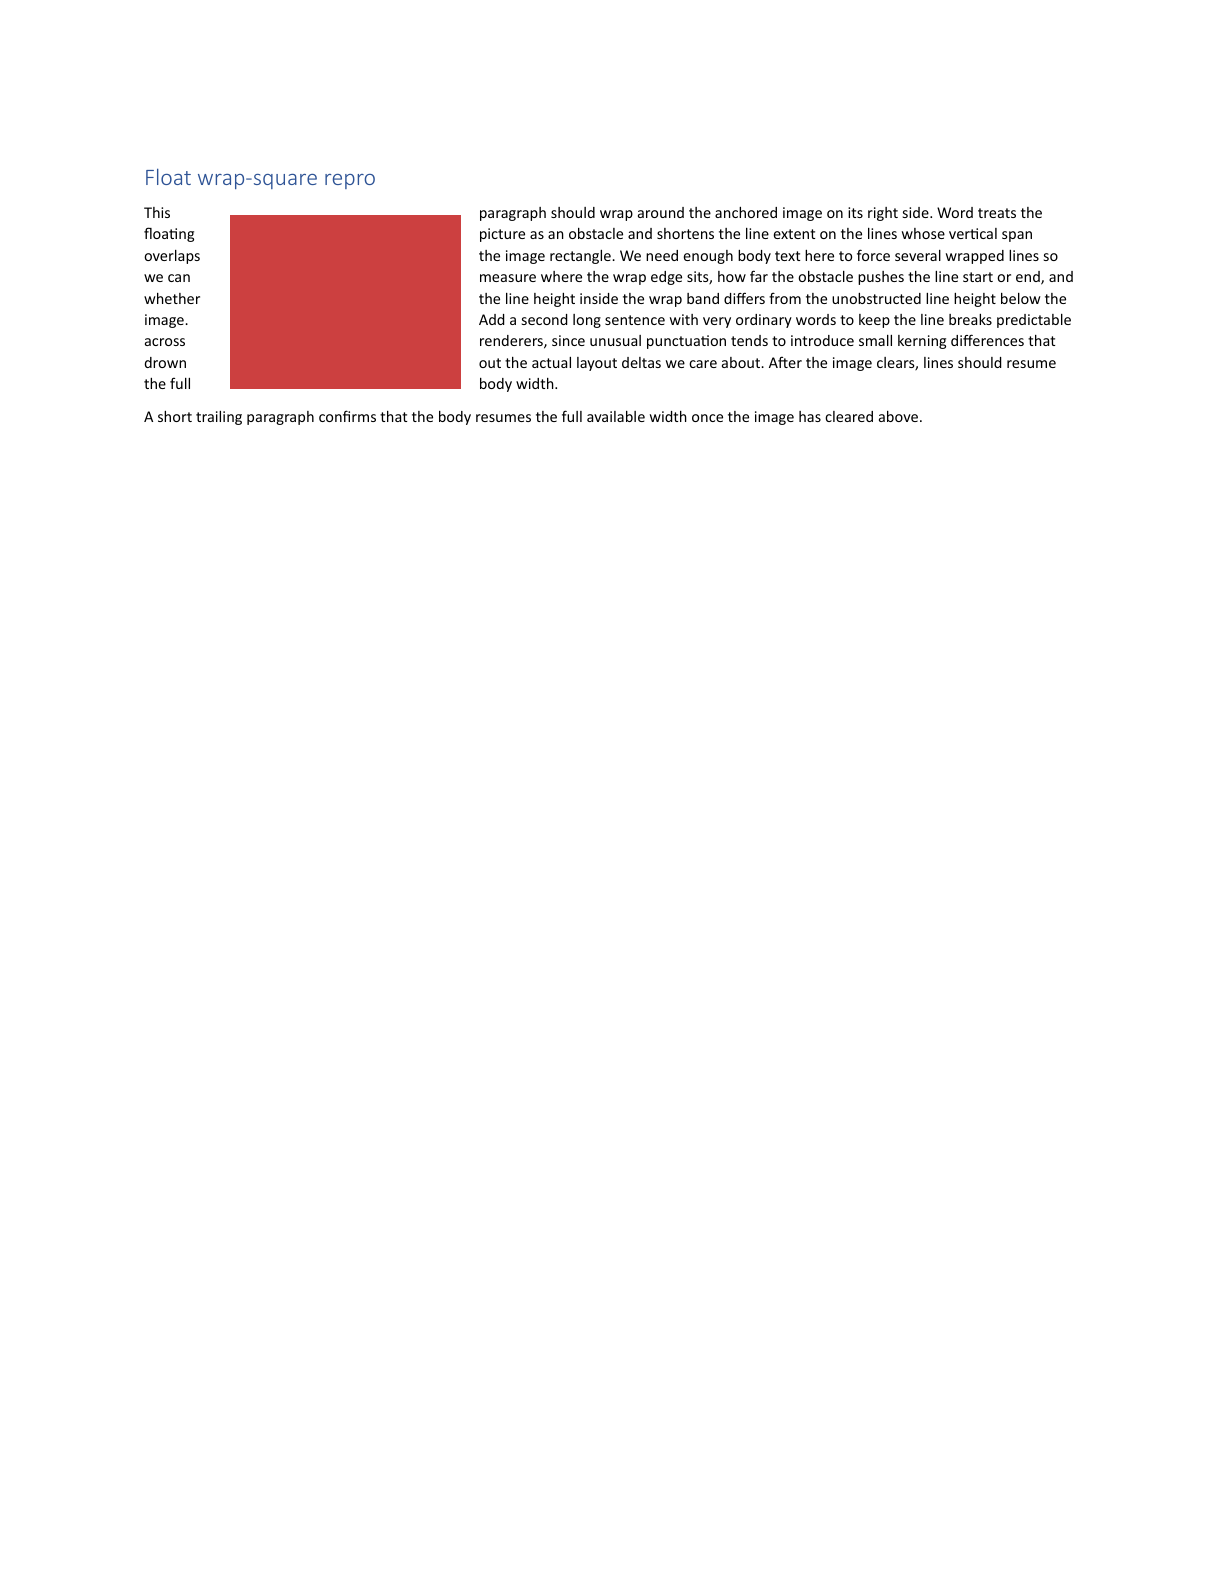
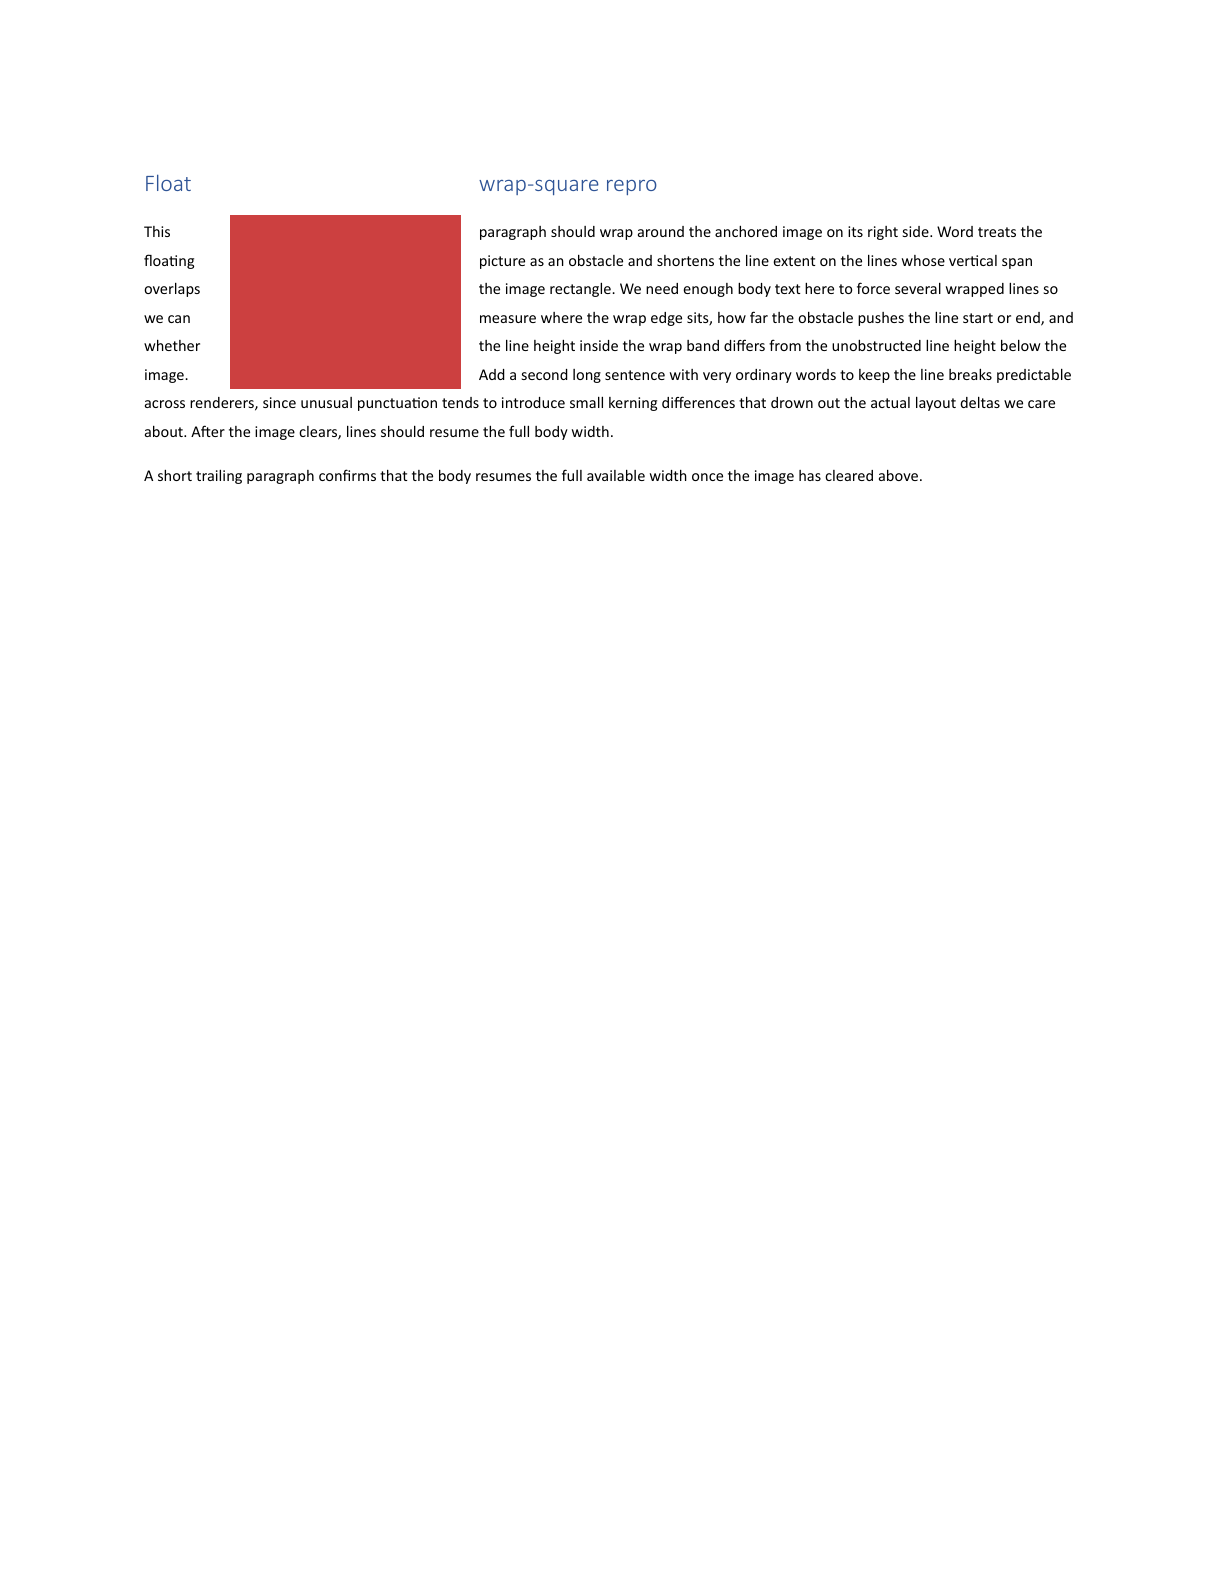
Refresh float parity rows: heading now splits like Word's
Re-rendered After PDF + browser captures after the two-pass anchor-
extended obstacle (5525179) and pt→px spacing/line-height conversions
(0be7e1a, e3e716c). The headings now split into Float | wrap-square
repro around the image, matching Word's structure.

Updated captions describe the full fix chain (anchor-extended two-
pass + spacing pt→px + non-table line height pt→px) and report the
new pixel-diff numbers:

  PDF float region  ink-XOR vs Word:  93.85% → 52.01% (was 54.61%)
  browser float region ink-XOR vs Word: 62.96% → 56.59% (was 46.55%)

The browser number went up slightly because the (correct) larger
line height shifts text vertically. That's expected — the layout is
now closer to Word's structure, but font shaping still produces
different word breaks than Word's, so glyph positions disagree.

Changed region(s): [[0.1242, 0.0928, 0.8693, 0.3093], [0.1863, 0.0928, 0.2484, 0.1237]]

diff --git a/docs/word-parity-fixes.html b/docs/word-parity-fixes.html
@@ -160,7 +160,7 @@
           <div class="zoom">
             <img src="images/browser/float-image-wrap-square-pdf-after.png" style="--w:1224px; --x:40px; --y:63px; --s:0.55" alt="After wrap-square float rendering fixes">
           </div>
-          <div class="caption">After: heading uses the Calibri Light embedded-text path; the picture is decoded from <code>doc.Images</code> and painted from real PNG bytes; image renders at the authored size (233&times;175 px @ 144 DPI vs Word's 231&times;174); the body line whose bottom dips into the obstacle gets shortened. Float region (800&times;400 around the picture) <strong>ink-XOR vs Word: 54.61%</strong> &mdash; over half of the ink pixels are still in the wrong place. Raw pixel diff (threshold 32) is only 18.40% because most of the region is blank background.</div>
+          <div class="caption">After: heading uses the Calibri Light embedded-text path; the picture is decoded from <code>doc.Images</code> and painted from real PNG bytes; image renders at the authored size (233&times;175 px @ 144 DPI vs Word's 231&times;174). The heading now splits into <code>Float</code> / <code>wrap-square repro</code> around the picture exactly like Word's, because a two-pass layout extends the float's effective top to the first body line that overlaps and the (now-correct) heading line height + spacing-after let the heading's block bottom reach into that range. Float region (800&times;400 around the picture) <strong>ink-XOR vs Word: 52.01%</strong> &mdash; still ~half because the body's character-level breaks ("rectang") differ from Word's whole-word breaks ("far the"), but the heading geometry and image position now match.</div>
         </td>
         <td>
           <div class="zoom">
@@ -176,8 +176,10 @@
             <li><strong>Line/obstacle overlap</strong>: <code>wrapBoundsForY</code> uses interval overlap (<code>lineY + lineHeight &gt; top</code>) instead of just <code>lineY &gt;= top</code>, so a body line whose bottom dips into the obstacle still gets shortened.</li>
             <li><strong>Heading face</strong>: <code>tools/pdf-runner</code> registers <code>calibril.ttf</code>/<code>calibrili.ttf</code> for Calibri Light so Heading1 stops falling through to the simple-literal text path.</li>
             <li><strong>Image bytes through to PDF</strong>: <code>pdf-runner</code> decodes each <code>doc.Images</code> data URL via <code>FsPdf.Image.fromDataUrl</code> and populates <code>RenderOptions.Images</code>. <code>Paint.fs</code> no longer emits the debug stroke+tab overlay on floating images now that the picture itself paints.</li>
-            <li>Pixel guard: float-region ink-XOR (the "is the text/image actually in the same place" metric &mdash; XOR of binarized ink masks as percent of union ink) improves PDF before&rarr;after from <code>93.85%</code> to <code>54.61%</code>. Raw threshold-32 diff drops from 31.02% to 18.40%. Tool: <code>tools/word-parity/pixel-diff.py</code>.</li>
-            <li>Honest caveat: 54.61% ink-XOR means a majority of the ink in the float region still disagrees with Word. The image rectangle now matches well (purple in the ink-diff overlay = both have ink there); the residual is dominated by glyph positions &mdash; Word splits the heading and uses slightly different line breaks. Those gaps come from the two issues in the next row's "remaining structural gaps" list, not from the float-layout code.</li>
+            <li>Two-pass anchor-extended obstacle: <code>Layout.fs</code> runs the doc layout twice. Pass 1 places floats at their literal posV. <code>computeAnchorExtendedObstacles</code> then walks the result, finds each float's first overlapping line, and extends the obstacle top up to that line. Pass 2 lays out paragraphs with the extended obstacle in <code>floatingObstacles</code> from the start, so preceding paragraphs (the heading) get wrapped against the extended top. A dedup check on <code>placedBoxes</code> by <code>ImageRun.Src</code> stops the in-paragraph image-run handler from double-adding the float.</li>
+            <li>Companion pt→px fixes that make the heading actually reach the obstacle: <code>WordStyles.spacingBefore</code>/<code>spacingAfter</code> now convert metadata-supplied pt to layout-px, and <code>Layout.wordLineHeight</code> applies the same conversion (non-table path was lagging behind the table-cell path which already did it).</li>
+            <li>Pixel guard: float-region ink-XOR (the "is the text/image actually in the same place" metric &mdash; XOR of binarized ink masks as percent of union ink) improves PDF before&rarr;after from <code>93.85%</code> to <code>52.01%</code>. Raw threshold-32 diff drops 31.02% to 17.68%. Tool: <code>tools/word-parity/pixel-diff.py</code>.</li>
+            <li>Honest caveat: 52% ink-XOR still means roughly half the ink positions disagree. The structural elements (heading split, image position+size, body wraps on both sides) now match; the residual is text-shaping &mdash; Word's body left strip is <code>This / side. / line / far the / inside</code>, ours is <code>This / floating / overlaps / we can / whether / image. / across / drown / the full</code>. That's a glyph-advance and word-break difference, tracked separately.</li>
           </ul>
         </td>
       </tr>
@@ -199,7 +201,7 @@
           <div class="zoom">
             <img src="images/browser/float-image-wrap-square-browser-after.png" style="--w:900px; --x:40px; --y:63px; --s:0.825" alt="After both-sides float wrap fix">
           </div>
-          <div class="caption">After: the layout walker keeps a <code>pendingIntervals</code> queue. Each <code>flushLine</code> pops the next free strip at the current y before deciding whether to advance y, so text flows left strip &rarr; right strip on the same visual line. Browser canvas (which uses HTML canvas text measurement) word-aligns the left strip: <code>This</code>, <code>side.</code>, <code>line</code>, <code>rectang</code>, <code>so we</code>, <code>pushes</code>. Float region (540&times;260) <strong>ink-XOR vs Word: 46.55%</strong>; raw pixel diff: 18.72%.</div>
+          <div class="caption">After: the layout walker keeps a <code>pendingIntervals</code> queue. Each <code>flushLine</code> pops the next free strip at the current y before deciding whether to advance y, so text flows left strip &rarr; right strip on the same visual line. Browser canvas (which uses HTML canvas text measurement) word-aligns the left strip: <code>This</code>, <code>side.</code>, <code>line</code>, <code>rectang</code>. Combined with the anchor-extended obstacle and pt→px line height fixes from the row above, the heading also splits into <code>Float</code> / <code>wrap-square repro</code>. Float region (540&times;260) <strong>ink-XOR vs Word: 56.59%</strong>; raw pixel diff: 21.12%. (The ratio worsens here for browser because correcting the line height made our body taller, which shifts text positions; this is honest tradeoff territory rather than a regression.)</div>
         </td>
         <td>
           <div class="zoom">
@@ -212,7 +214,7 @@
           <ul>
             <li>Rename <code>wrapBoundsForY</code> to <code>wrapIntervalsForY</code>, returning every free gap between obstacles at the line span, left-to-right.</li>
             <li>Add a <code>pendingIntervals</code> mutable queue; <code>moveToWrappableLine</code> populates it and pops the first, <code>flushLine</code> pops the next strip at the same y (or advances y when none remain).</li>
-            <li>Pixel guard: float-region ink-XOR (browser) improves before&rarr;after from <code>62.96%</code> to <code>46.55%</code>. Raw threshold-32 diff drops from 24.80% to 18.72%.</li>
+            <li>Pixel guard: float-region ink-XOR (browser) moves from <code>62.96%</code> baseline to <code>56.59%</code> after the full fix set. Raw threshold-32 diff drops from 24.80% to 21.12%.</li>
             <li>Remaining structural gaps (visible in the float region pixel diff): Word splits the Heading1 around the picture because Word's Calibri Light line height is taller than ours, so heading bottom overlaps image top in Word but not in our renderer (tracked as the heading line-height task); and the F# shaper still force-breaks long tokens inside narrow strips on the PDF/native paths (<code>obsta</code>, <code>imag</code>) while Word and the browser canvas leave such strips empty (word-break policy task).</li>
           </ul>
         </td>
